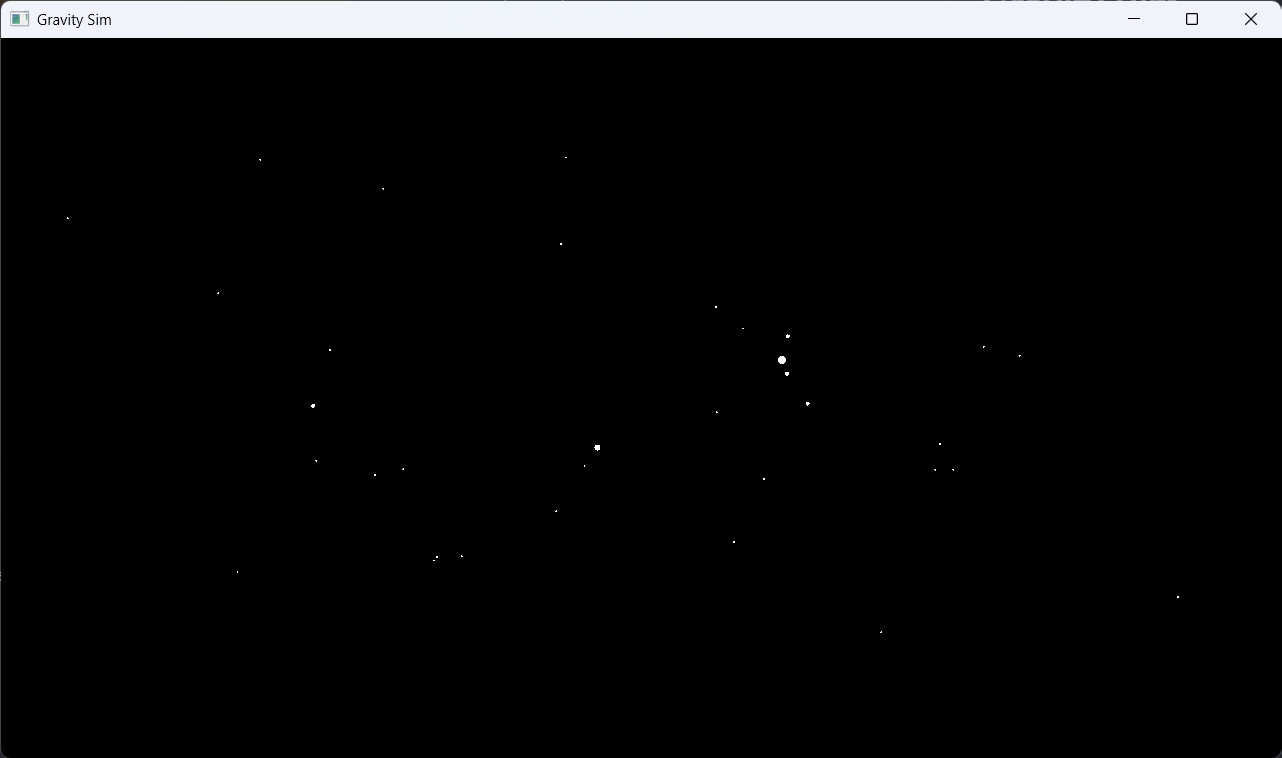
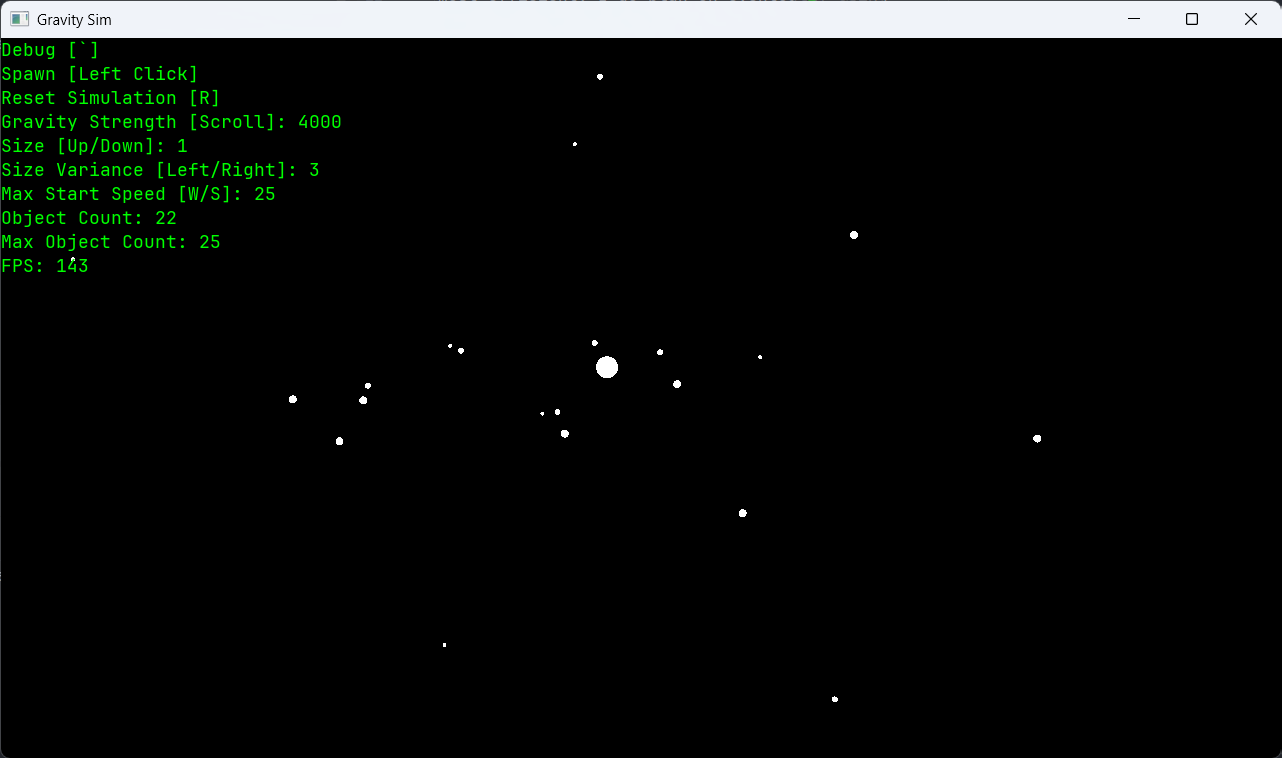
updated the readme

Changed region(s): [[0.0, 0.0607, 0.2808, 0.3641], [0.468, 0.4551, 0.4992, 0.5158]]

diff --git a/README.md b/README.md
@@ -6,6 +6,13 @@ A C++ gravity simulator.
 
 ## Details
 * Click on the screen to add a new object.
+* <kbd>`</kbd>To toggle debug info.
+* <kbd>&uparrow;</kbd>/<kbd>&downarrow;</kbd>
+To change the object spawn size.
+* <kbd>&leftarrow;</kbd>/<kbd>&rightarrow;</kbd>
+To change the variance in spawn size.
+* <kbd>W</kbd>/<kbd>D</kbd> To change the maximum
+speed an object will spawn with.
 * Objects merge when they overlap.
 * Internally stores objects with SOA rather
 AOS for better cache performance.
@@ -28,13 +35,11 @@ This project uses CMake so build use the
 compiler/build system of your choice.
 
 Before building, you might want to configure 
-some things in [Config.hpp](src/Config.hpp)
-such as `G` (gravitational constant) and `C`
-(speed of light/speed limit). The defaults
-are just what I think looks good. The one most
-people will probably want to change is the
-`FPS_CAP` which has been set to 144hz as that is
-what my monitor can display.
+some things in [Config.hpp](src/Config.hpp). The defaults
+are just what I think looks good on my PC.
+The one most people will probably want to change 
+is the `FPS_CAP` which has been set to 144hz 
+as that is what my monitor can display.
 
 ### Run
 Just run the executable produced by the build.
